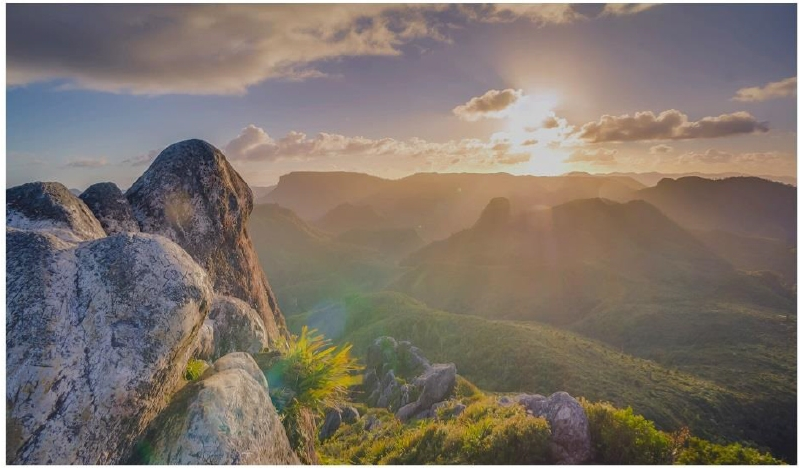
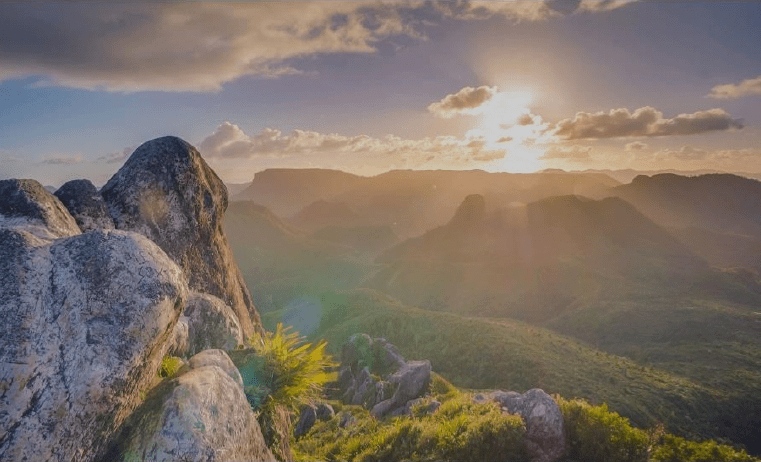
Add border radius to images

diff --git a/docs/src/css/custom.css b/docs/src/css/custom.css
@@ -24,6 +24,10 @@
   padding: 0 var(--ifm-pre-padding);
 }
 
+img {
+  border-radius: 15px;
+}
+
 /* align image to the right */
 .image-container {
   float: right;
